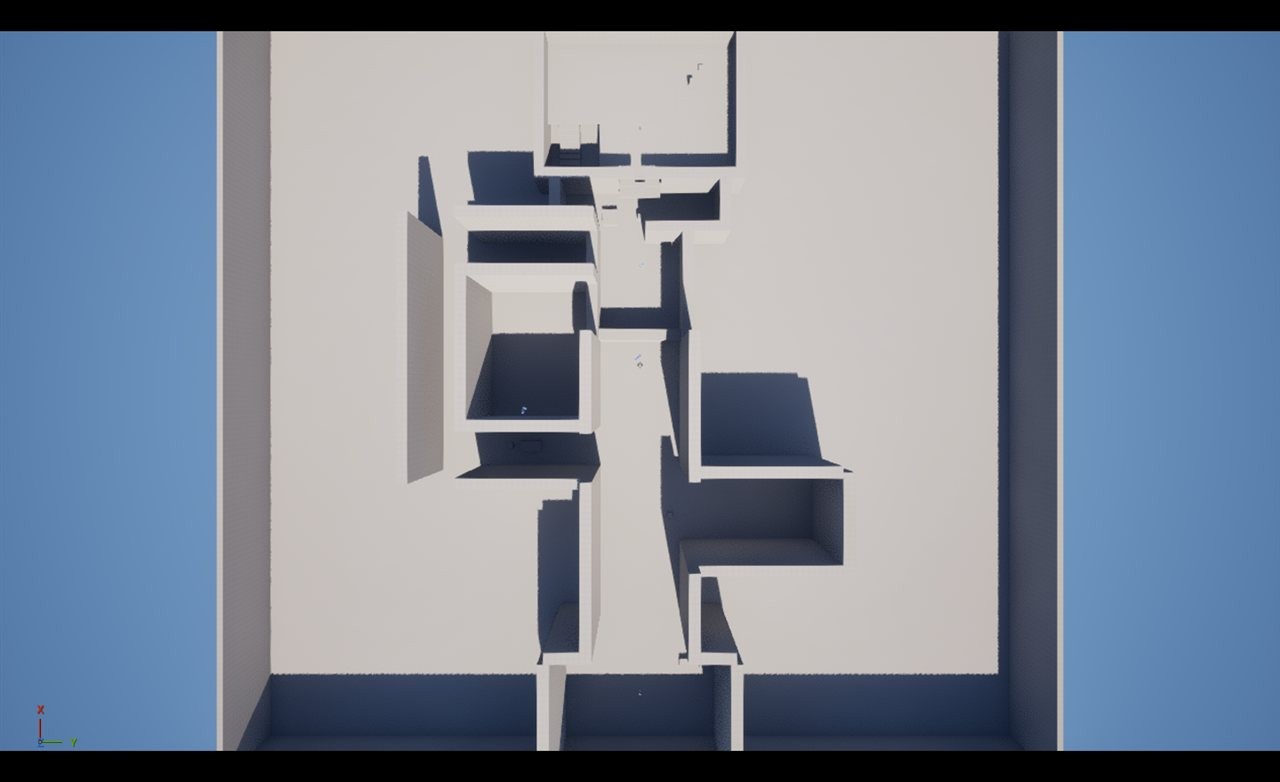
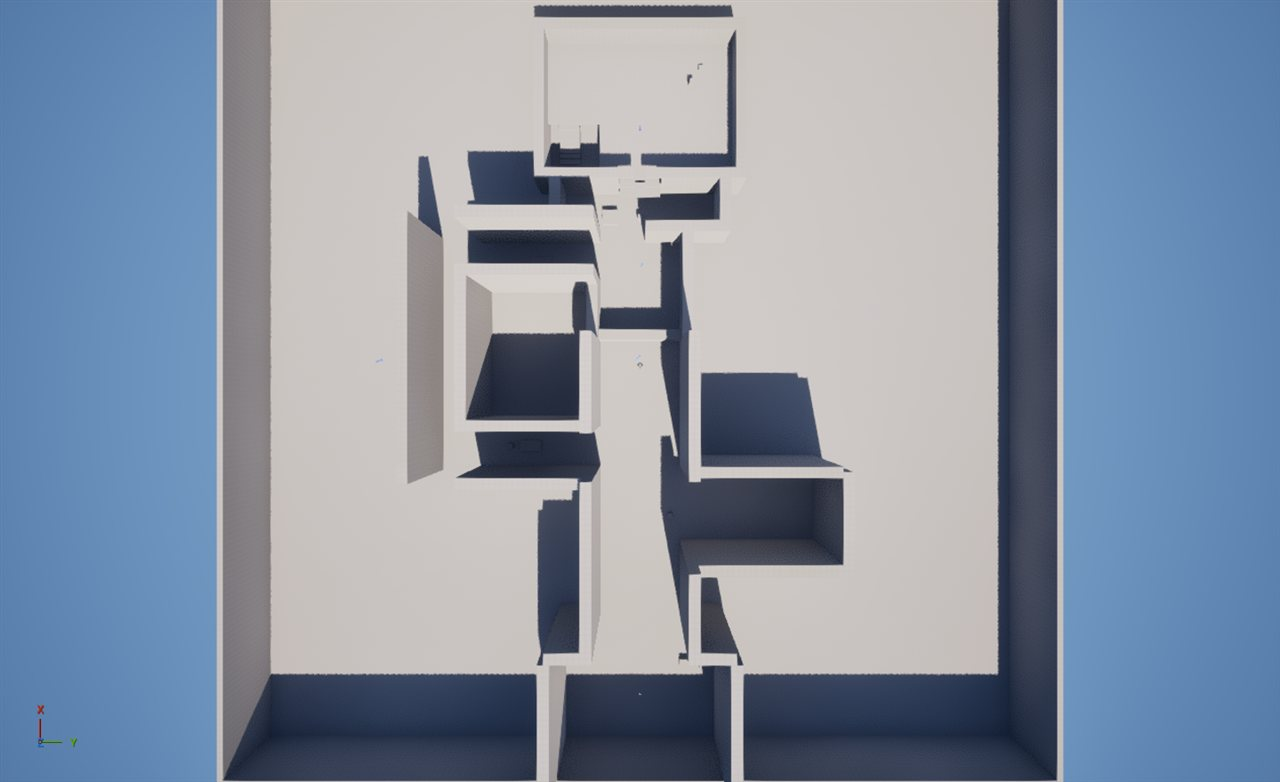
fix: open the combat alley exit that BLK_SH_Wall_S was sealing
시네마틱에서 카메라가 BLK_SH_Wall_S를 관통한다는 지적을 받아 액터 전체와
플라이스루 경로를 검사했다. 카메라만의 문제가 아니라 동선이 막혀 있었다.

BLK_SH_Wall_S는 X 500~2500, Y -1000~-800을 차지하는데 전투 골목 북행 구간의
내부 폭이 X 1700~2500이다. 골목 북쪽 출구가 이 벽으로 완전히 봉쇄되어 플레이어가
광장으로 나갈 수 없는 상태였다. 카메라는 벽을 통과하므로 그냥 지나갔고 스크린샷에도
드러나지 않았다.

벽을 X 500~1700으로 줄여 출구를 열었다. 통로 영역(X 1700~2500, Y -1000~-700,
z 0~300)을 막는 액터가 0개임을 확인했다.

검사 내용:
- 액터 85개 감사 — 원점 이동, 부유, 지면 아래, 스케일 이상, 구역 이탈 모두 0건.
  벽 겹침 20쌍은 전부 코너 접합(100~200cm)으로 의도된 것이다.
- 플라이스루 2280프레임을 5프레임 간격(457샘플)으로 평가해 블록아웃 54개 AABB와 대조.
  수정 후 BLK_SH_Wall_S 충돌 소멸.
- 남은 충돌 1건은 BLK_Shutter_Closed(프레임 2175)로, 복귀 시 셔터가 열리는 의도된
  연출이다. 블록아웃에 열린 상태가 없어 닫힌 벽을 지나간다. 게임플레이 구현 시
  해당 구간에서 액터를 숨기거나 애니메이션을 넣어야 한다.

시네마틱 경로는 동선 검증 도구로 쓸 수 있다. 카메라가 지오메트리를 관통하는 지점이
곧 막힌 길이거나 열려야 할 곳이다. 이 방법을 level_blockout_shots.md에 기록했다.

diff --git a/docs/level_blockout_shots.md b/docs/level_blockout_shots.md
@@ -146,3 +146,49 @@ PIE에서 실제로 확인했다.
 
 **앞으로 블록아웃에 단차를 만들 때는 40cm를 기준으로 한다.** 45cm가 한계이므로
 여유를 두지 않으면 바닥 오차나 경사에서 걸린다.
+
+---
+
+## 전체 액터 감사 및 카메라 경로 충돌 검사
+
+시네마틱에서 카메라가 `BLK_SH_Wall_S`를 뚫고 지나간다는 지적을 받아, 액터 전체와
+플라이스루 경로를 검사했다.
+
+### 1. 액터 감사 (85개)
+
+| 검사 항목 | 결과 |
+|---|---|
+| 원점(0,0,0)에 몰린 액터 | 0 |
+| 지면 위에 떠 있는 블록 | 0 |
+| 지면 아래로 꺼진 블록 | 0 |
+| 스케일 0 또는 음수 | 0 |
+| 플레이 구역(±7600) 밖으로 나간 블록아웃 | 0 |
+
+벽 사이 겹침은 20쌍이 검출됐으나 전부 **벽이 만나는 코너 접합**(100~200cm)이었다.
+경계 파사드 네 모서리, 건물 외벽 모서리, 골목과 대로가 만나는 T자 접합 등이며 의도된 것이다.
+
+### 2. 카메라 경로 충돌 — 실제로는 동선이 막혀 있었다
+
+플라이스루 2280프레임을 5프레임 간격(457샘플)으로 평가해 블록아웃 54개의 AABB와 대조했다.
+
+**`BLK_SH_Wall_S` (프레임 1365, 카메라 `(2145, -912, 181)`)**
+
+카메라만의 문제가 아니었다. 이 벽은 `X 500~2500, Y -1000~-800`을 차지하는데,
+전투 골목 북행 구간의 내부 폭이 `X 1700~2500`이다. **골목 북쪽 출구가 이 벽으로 완전히 봉쇄되어
+플레이어가 광장으로 나갈 수 없는 상태였다.** 카메라는 벽을 통과하니 그냥 지나갔고,
+스크린샷에서도 드러나지 않았다.
+
+벽을 `X 500~1700`으로 줄여 골목 출구(`X 1700~2500`)를 열었다. 재검사 결과 충돌이 사라졌고,
+통로 영역(`X 1700~2500, Y -1000~-700, z 0~300`)을 막는 액터가 0개임을 확인했다.
+
+**`BLK_Shutter_Closed` (프레임 2175, 카메라 `(574, 30, 195)`)**
+
+복귀 구간에서 셔터를 통과한다. 이것은 의도된 연출이다 — 데이터칩 획득 후 셔터가 열려
+대로로 직선 복귀하는 비트다. 다만 블록아웃에는 셔터의 열린 상태가 없어 카메라가 닫힌 벽을
+지나간다. 게임플레이로 셔터 개방을 구현할 때 이 구간에서 액터를 숨기거나 애니메이션을 넣어야 한다.
+
+### 교훈
+
+**시네마틱 경로는 동선 검증 도구로 쓸 수 있다.** 사람이 걸어보지 않아도 카메라가 지오메트리를
+관통하는 지점을 찾으면 그곳이 곧 막힌 길이거나 열려야 할 곳이다.
+블록아웃 단계에서 벽을 옮길 때마다 이 검사를 돌리면 연결성 오류를 값싸게 잡을 수 있다.

diff --git a/docs/level_flow.md b/docs/level_flow.md
@@ -57,6 +57,10 @@
 | E 광장 | +2500 ~ +3500 | -1500 ~ +1500 | 10m × 30m |
 | F 적 건물 | +3500 ~ +6500 | -2000 ~ +2000 | 30m × 40m, 2층 |
 
+셔터 구간의 남쪽 벽(`BLK_SH_Wall_S`)은 `X 500~1700`까지만 세운다.
+`X 1700~2500`은 **전투 골목 북쪽 출구**이므로 비워둬야 한다.
+이 구간을 벽으로 막으면 골목에서 광장으로 나갈 수 없다.
+
 전투 골목은 남쪽으로 내려가 동쪽으로 이동한 뒤 다시 북쪽으로 올라오는 **ㄷ자**다.
 직선이면 플레이어가 적 2명을 동시에 원거리에서 보고 안전하게 처리해버린다.
 두 번 꺾으면 첫 적과 교전하는 중에 두 번째가 합류하는 압박이 생긴다.
